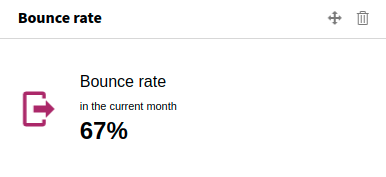
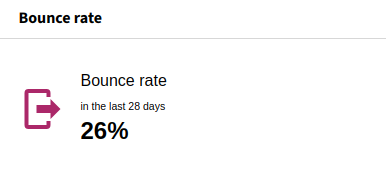
chore!: Change date ranges of various widgets from current month to last 28 days

diff --git a/Classes/DependencyInjection/Widgets/BounceRateRegistration.php b/Classes/DependencyInjection/Widgets/BounceRateRegistration.php
@@ -43,13 +43,13 @@ final class BounceRateRegistration extends AbstractRegistration
         $this->parameters->set(
             self::PARAMETERS_PARAMETERS,
             [
-                'period' => 'month',
-                'date' => 'today',
+                'period' => 'range',
+                'date' => 'last28',
             ],
         );
         $this->parameters->set(
             self::PARAMETERS_SUBTITLE,
-            Extension::LANGUAGE_PATH_DASHBOARD . ':widgets.visitsSummary.bounceRate.subtitle',
+            Extension::LANGUAGE_PATH_DASHBOARD . ':widgets.visitsSummary.bounceRate.dateRange',
         );
     }
 

diff --git a/Classes/DependencyInjection/Widgets/SiteSearchNoResultKeywordsRegstration.php b/Classes/DependencyInjection/Widgets/SiteSearchNoResultKeywordsRegstration.php
@@ -43,8 +43,8 @@ final class SiteSearchNoResultKeywordsRegstration extends AbstractRegistration
         $this->parameters->set(
             self::PARAMETERS_PARAMETERS,
             [
-                'period' => 'month',
-                'date' => 'today',
+                'period' => 'range',
+                'date' => 'last28',
                 'filter_limit' => '50',
                 'filter_sort_column' => 'nb_visits',
                 'filter_sort_order' => 'desc',

diff --git a/Classes/DependencyInjection/Widgets/ContentPiecesRegistration.php b/Classes/DependencyInjection/Widgets/ContentPiecesRegistration.php
@@ -43,8 +43,8 @@ final class ContentPiecesRegistration extends AbstractRegistration
         $this->parameters->set(
             self::PARAMETERS_PARAMETERS,
             [
-                'period' => 'month',
-                'date' => 'today',
+                'period' => 'range',
+                'date' => 'last28',
                 'filter_limit' => '50',
                 'filter_sort_column' => 'nb_impressions',
                 'filter_sort_order' => 'desc',

diff --git a/Classes/DependencyInjection/Widgets/SiteSearchKeywordsRegistration.php b/Classes/DependencyInjection/Widgets/SiteSearchKeywordsRegistration.php
@@ -43,8 +43,8 @@ final class SiteSearchKeywordsRegistration extends AbstractRegistration
         $this->parameters->set(
             self::PARAMETERS_PARAMETERS,
             [
-                'period' => 'month',
-                'date' => 'today',
+                'period' => 'range',
+                'date' => 'last28',
                 'filter_limit' => '50',
                 'filter_sort_column' => 'nb_visits',
                 'filter_sort_order' => 'desc',

diff --git a/Classes/DependencyInjection/Widgets/ContentNamesRegistration.php b/Classes/DependencyInjection/Widgets/ContentNamesRegistration.php
@@ -43,8 +43,8 @@ final class ContentNamesRegistration extends AbstractRegistration
         $this->parameters->set(
             self::PARAMETERS_PARAMETERS,
             [
-                'period' => 'month',
-                'date' => 'today',
+                'period' => 'range',
+                'date' => 'last28',
                 'filter_limit' => '50',
                 'filter_sort_column' => 'nb_impressions',
                 'filter_sort_order' => 'desc',

diff --git a/Classes/DependencyInjection/Widgets/BrowserPluginsRegistration.php b/Classes/DependencyInjection/Widgets/BrowserPluginsRegistration.php
@@ -44,8 +44,8 @@ final class BrowserPluginsRegistration extends AbstractRegistration
         $this->parameters->set(
             self::PARAMETERS_PARAMETERS,
             [
-                'period' => 'month',
-                'date' => 'today',
+                'period' => 'range',
+                'date' => 'last28',
                 'filter_limit' => '50',
                 'filter_sort_column' => 'nb_visits',
                 'filter_sort_order' => 'desc',

diff --git a/Classes/DependencyInjection/Widgets/MostViewedPagesRegistration.php b/Classes/DependencyInjection/Widgets/MostViewedPagesRegistration.php
@@ -43,8 +43,8 @@ final class MostViewedPagesRegistration extends AbstractRegistration
         $this->parameters->set(
             self::PARAMETERS_PARAMETERS,
             [
-                'period' => 'month',
-                'date' => 'today',
+                'period' => 'range',
+                'date' => 'last28',
                 'filter_limit' => '50',
                 'filter_sort_column' => 'nb_hits',
                 'filter_sort_order' => 'desc',

diff --git a/Classes/DependencyInjection/Widgets/CustomDimensionsRegistration.php b/Classes/DependencyInjection/Widgets/CustomDimensionsRegistration.php
@@ -58,8 +58,8 @@ final class CustomDimensionsRegistration extends AbstractRegistration
         $this->parameters->set(
             $this->parametersName,
             [
-                'period' => 'month',
-                'date' => 'today',
+                'period' => 'range',
+                'date' => 'last28',
                 'filter_limit' => '50',
                 'filter_sort_column' => 'nb_visits',
                 'filter_sort_order' => 'desc',

diff --git a/Classes/DependencyInjection/Widgets/CampaignsRegistration.php b/Classes/DependencyInjection/Widgets/CampaignsRegistration.php
@@ -43,8 +43,8 @@ final class CampaignsRegistration extends AbstractRegistration
         $this->parameters->set(
             self::PARAMETERS_PARAMETERS,
             [
-                'period' => 'month',
-                'date' => 'today',
+                'period' => 'range',
+                'date' => 'last28',
                 'filter_limit' => '30',
                 'filter_sort_column' => 'nb_visits',
                 'filter_sort_order' => 'desc',

diff --git a/Classes/DependencyInjection/Widgets/CountriesRegistration.php b/Classes/DependencyInjection/Widgets/CountriesRegistration.php
@@ -45,8 +45,8 @@ final class CountriesRegistration extends AbstractRegistration
         $this->parameters->set(
             self::PARAMETERS_PARAMETERS,
             [
-                'period' => 'month',
-                'date' => 'today',
+                'period' => 'range',
+                'date' => 'last28',
                 'filter_limit' => '50',
                 'filter_sort_column' => 'nb_visits',
                 'filter_sort_order' => 'desc',

diff --git a/Classes/DependencyInjection/Widgets/OsFamiliesRegistration.php b/Classes/DependencyInjection/Widgets/OsFamiliesRegistration.php
@@ -44,8 +44,8 @@ final class OsFamiliesRegistration extends AbstractRegistration
         $this->parameters->set(
             self::PARAMETERS_PARAMETERS,
             [
-                'period' => 'month',
-                'date' => 'today',
+                'period' => 'range',
+                'date' => 'last28',
                 'filter_sort_column' => 'nb_visits',
                 'filter_sort_order' => 'desc',
             ],

diff --git a/Classes/DependencyInjection/Widgets/BrowsersRegistration.php b/Classes/DependencyInjection/Widgets/BrowsersRegistration.php
@@ -44,8 +44,8 @@ final class BrowsersRegistration extends AbstractRegistration
         $this->parameters->set(
             self::PARAMETERS_PARAMETERS,
             [
-                'period' => 'month',
-                'date' => 'today',
+                'period' => 'range',
+                'date' => 'last28',
                 'filter_sort_column' => 'nb_visits',
                 'filter_sort_order' => 'desc',
             ],
